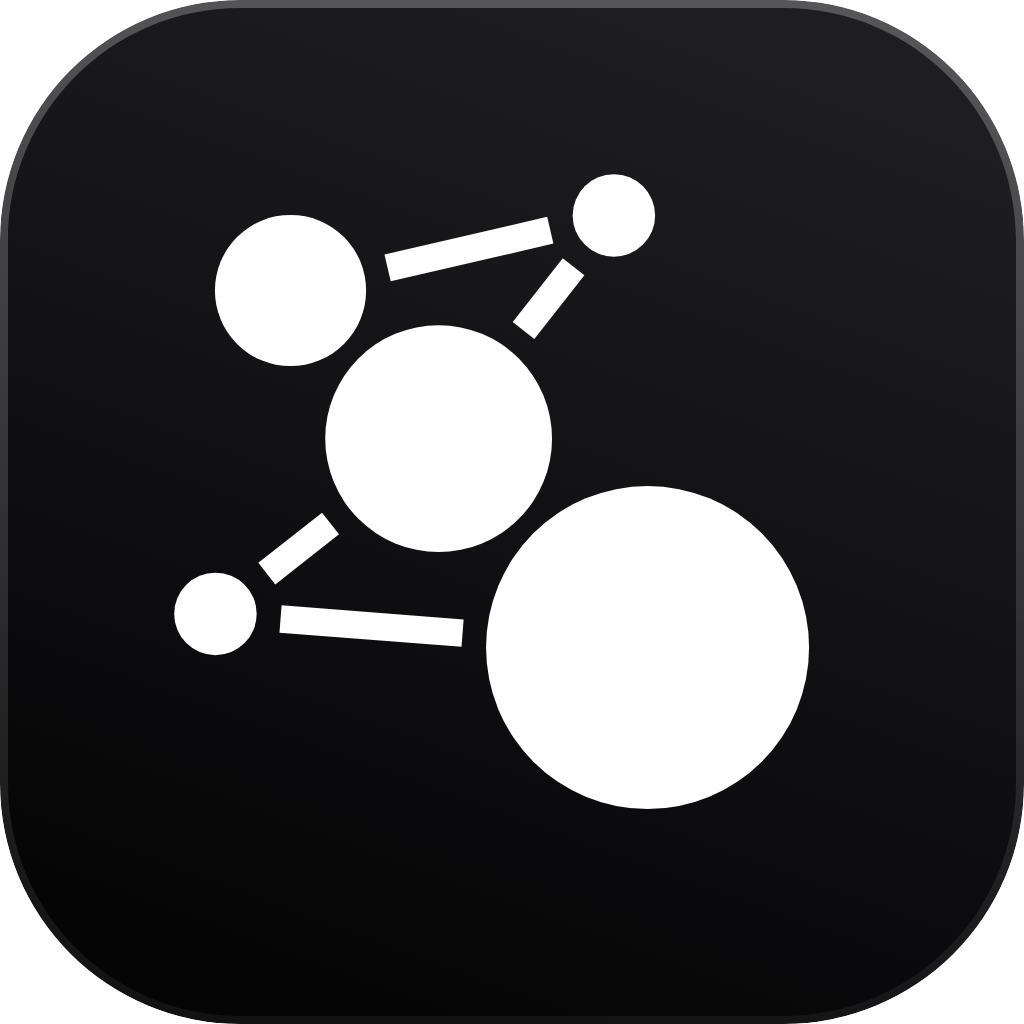
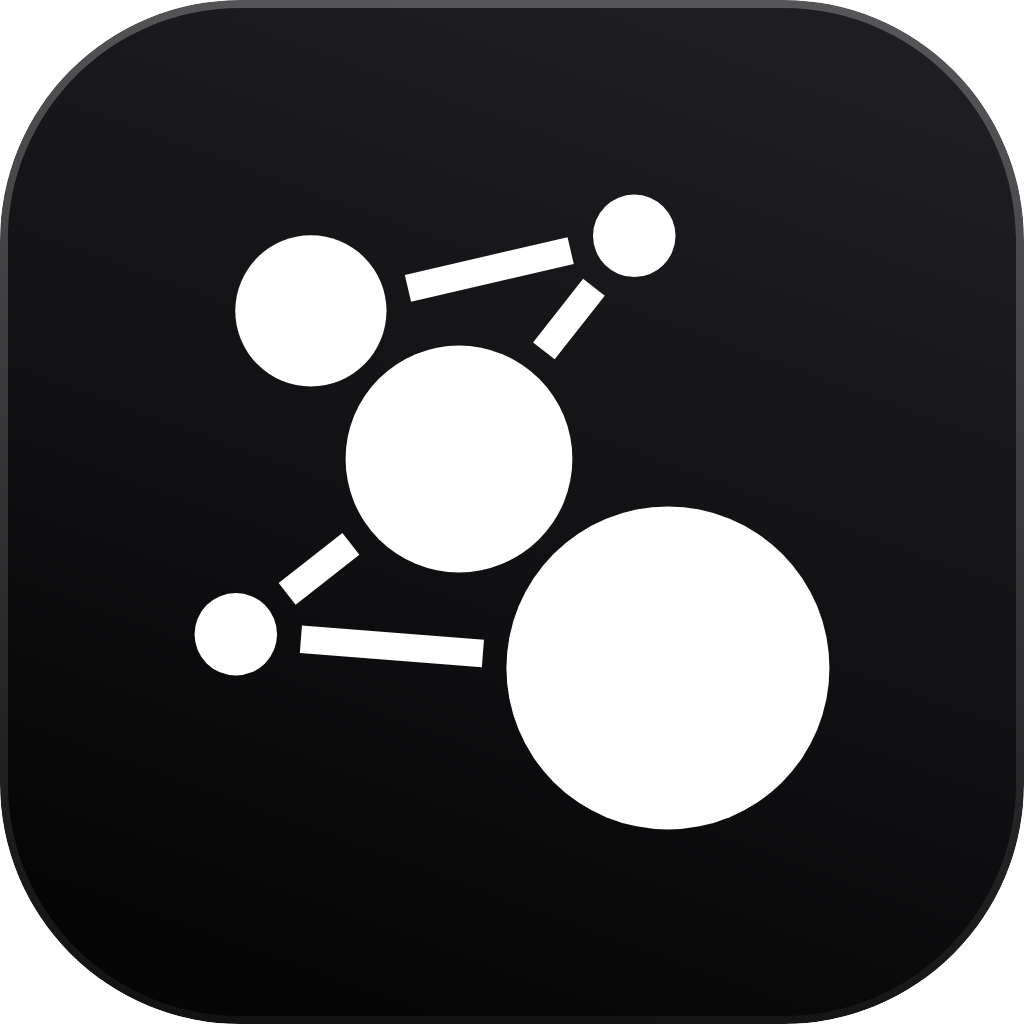
fix: center the Formicand mark on its canvas
The mark's bounding box sat 2.5/128 up and left of center. Shift it to
center in the app icons, both sidebar symbols and the 1024 px desktop
source (re-exported from the SVG; the build regenerates the icns).

Polish backlog item 1. The design file still holds the old position.

diff --git a/web/index.html b/web/index.html
@@ -323,7 +323,7 @@
           <path d="M14 3H5v18h14V8ZM14 3v5h5M12 11v6M9 14h6" />
         </symbol>
         <symbol id="i-formicand-mark" viewBox="0 0 280 280">
-          <g fill="currentColor">
+          <g fill="currentColor" transform="translate(8.082 8.082)">
             <circle transform="translate(22.0817 22.0817)" cx="30.008" cy="30.008" r="30.008" />
             <circle transform="translate(65.8663 65.8663)" cx="45.012" cy="45.012" r="45.012" />
             <circle transform="translate(129.7018 129.7018)" cx="64.108" cy="64.108" r="64.108" />
@@ -348,7 +348,7 @@
           </g>
         </symbol>
         <symbol id="i-formicand-mark-small" viewBox="0 0 16 16">
-          <g fill="currentColor">
+          <g fill="currentColor" transform="translate(0.472 0.472)">
             <circle transform="translate(1.1121 1.1121)" cx="1.753" cy="1.753" r="1.753" />
             <circle transform="translate(3.6697 3.6697)" cx="2.629" cy="2.629" r="2.629" />
             <circle transform="translate(7.3985 7.3985)" cx="3.745" cy="3.745" r="3.745" />
